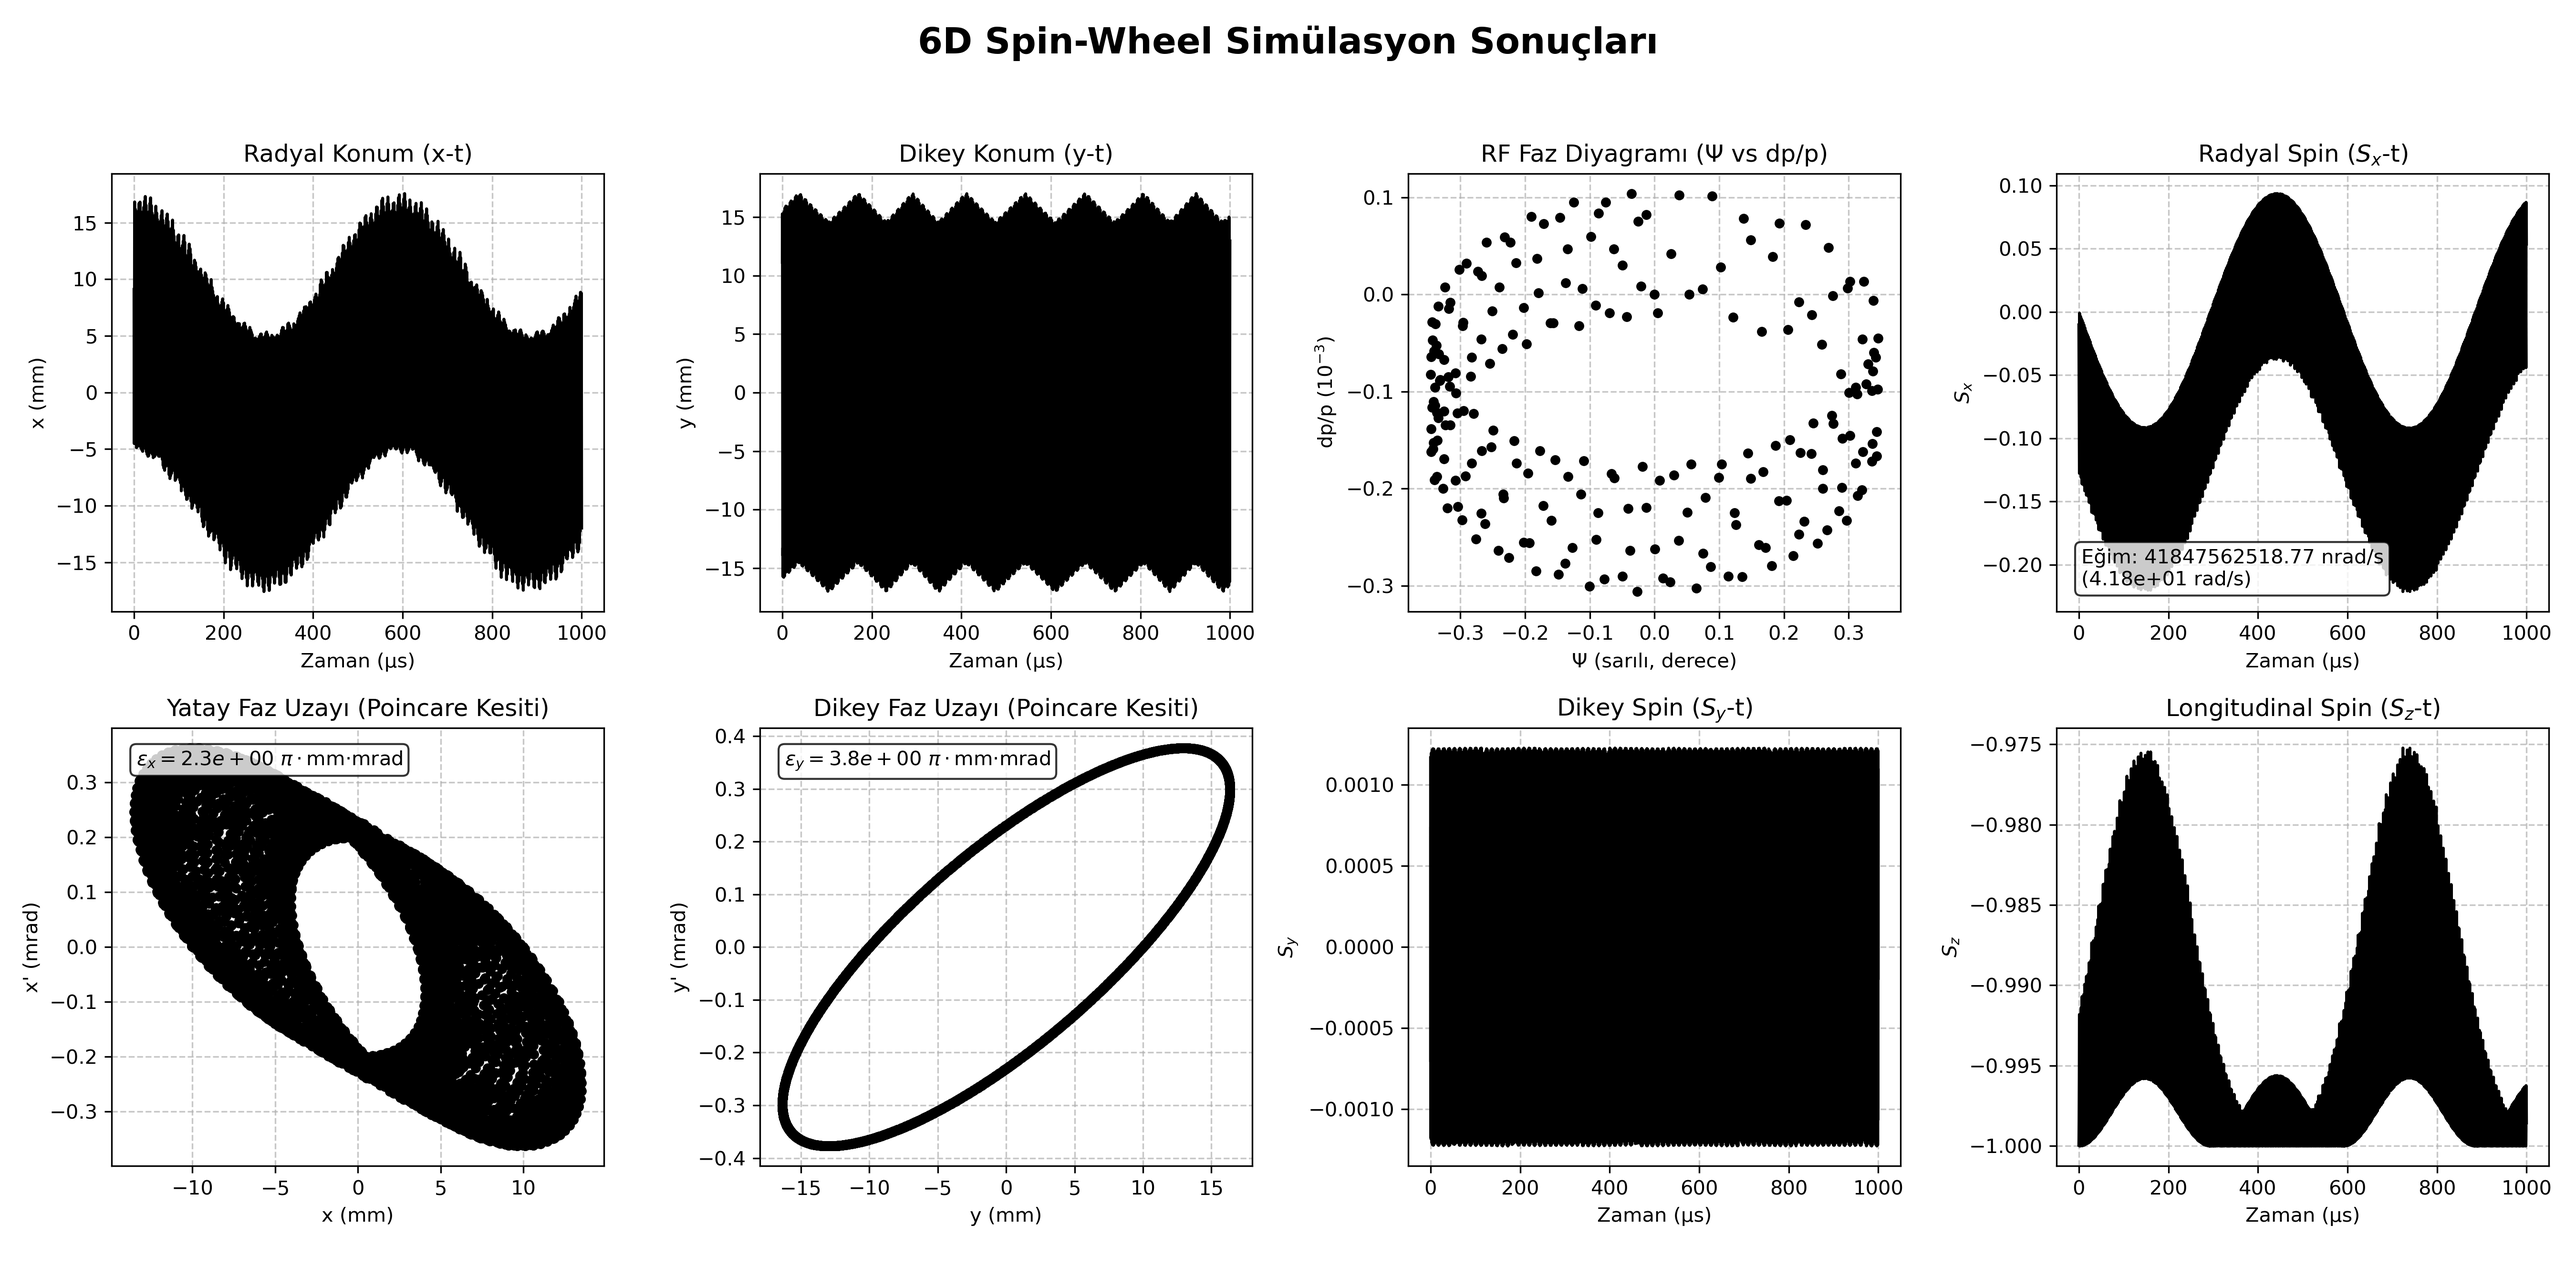
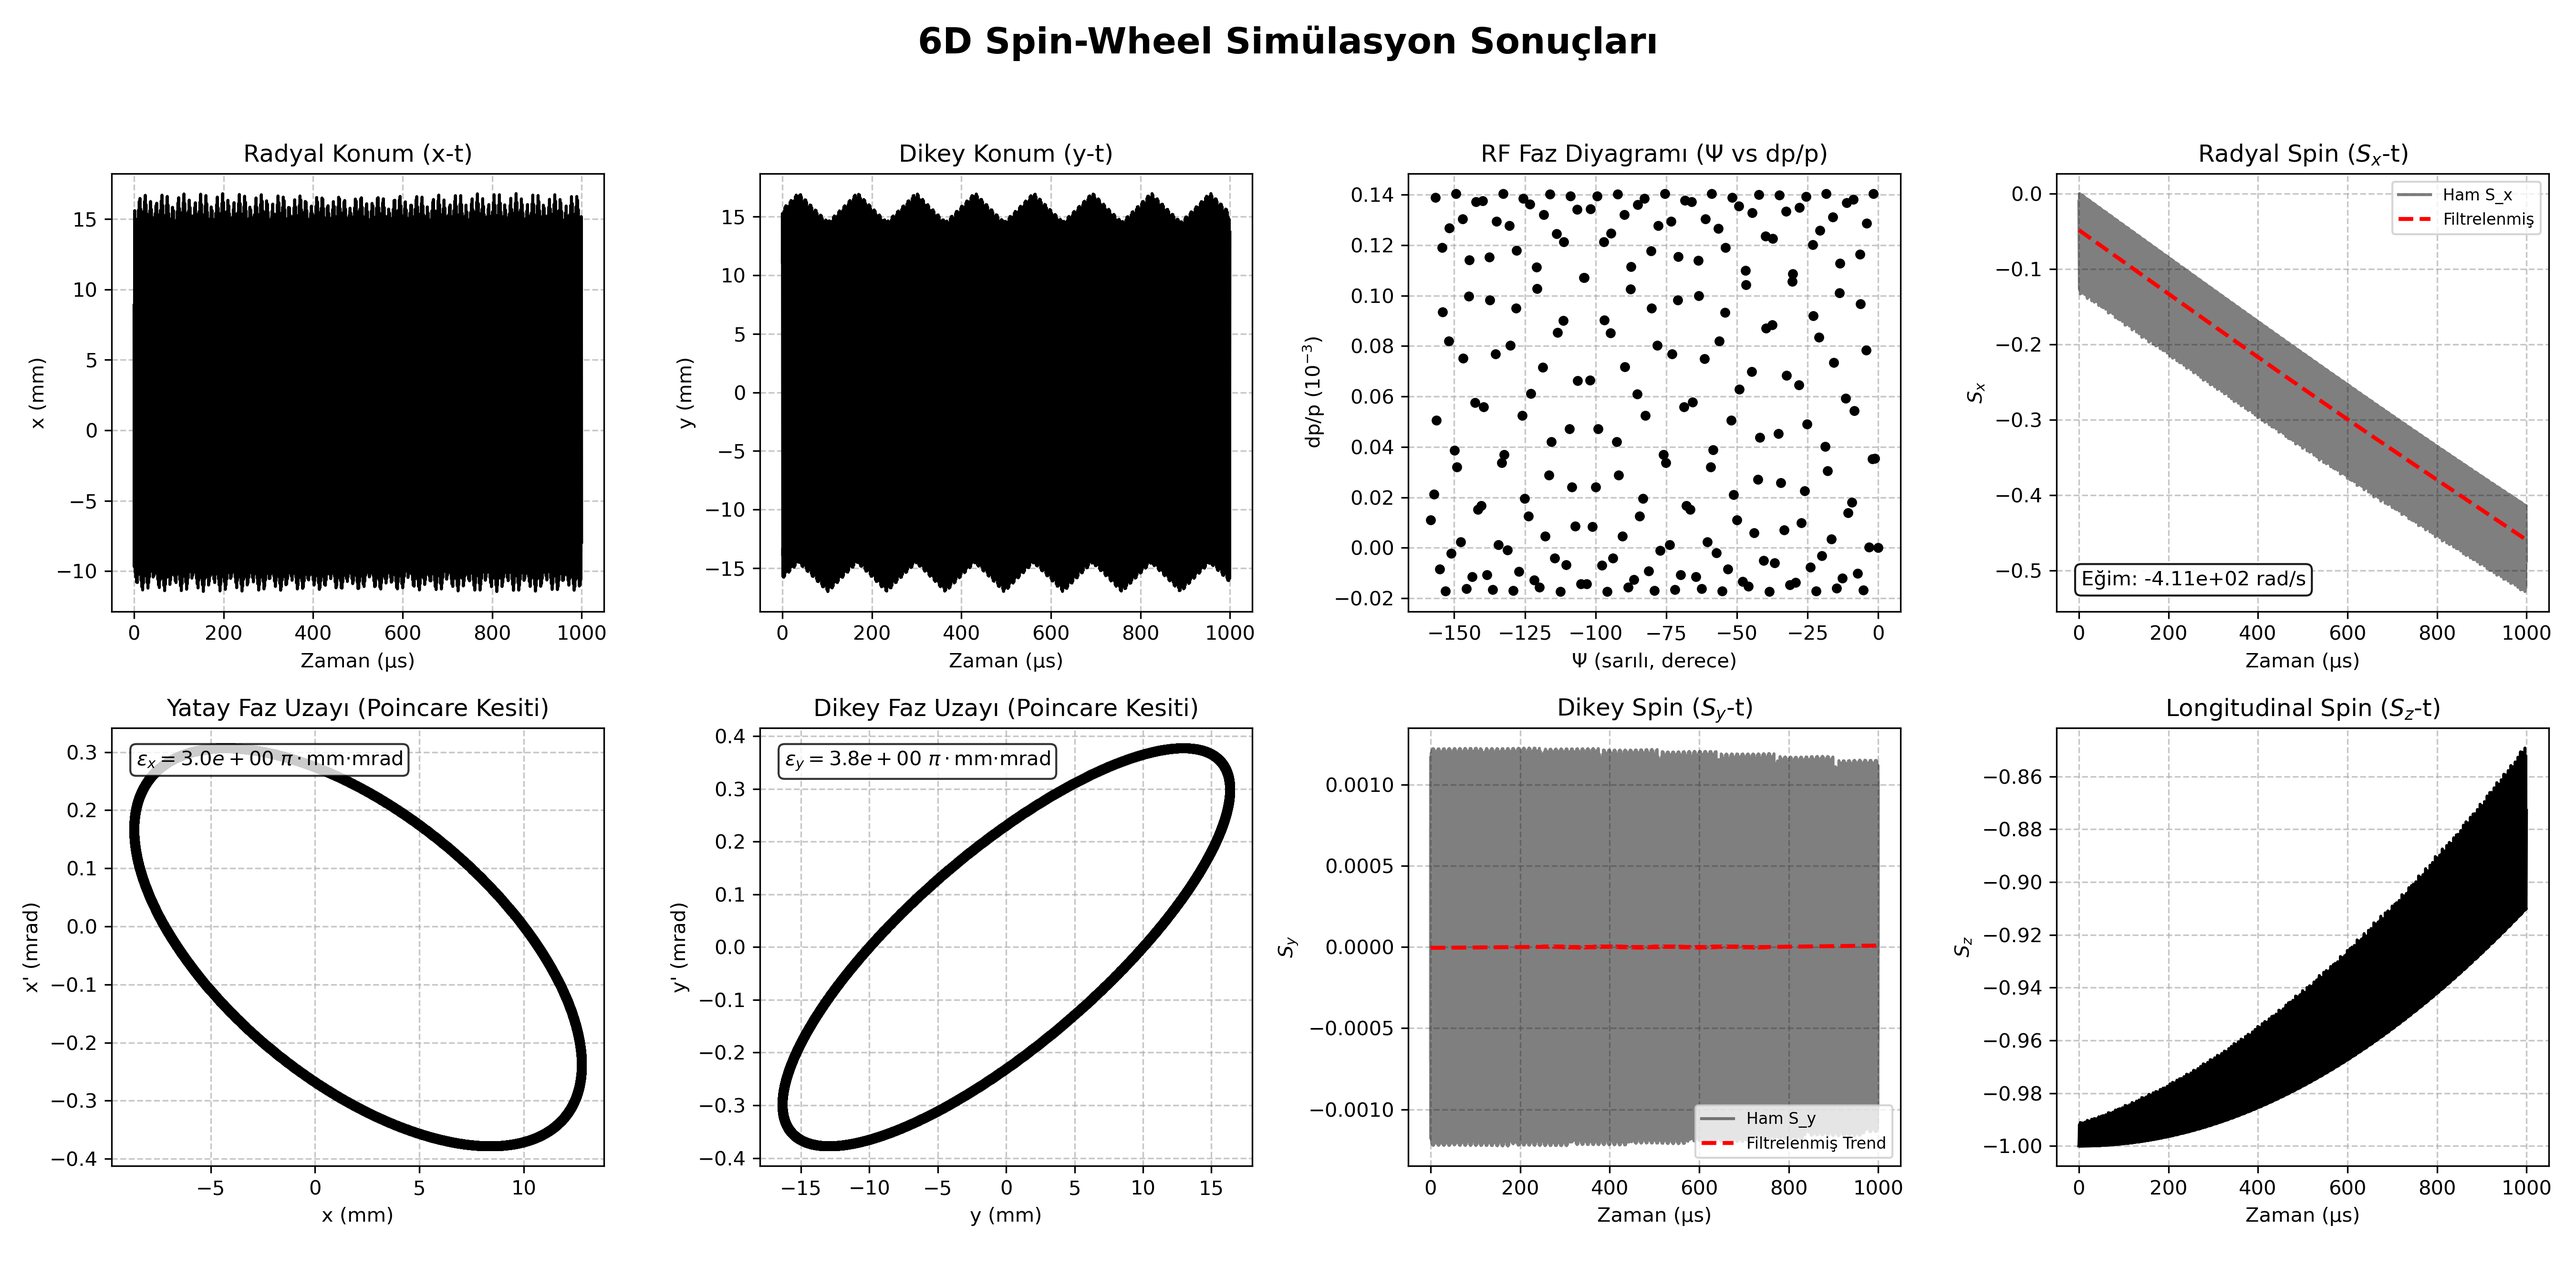
Klasördeki tüm güncel dosyalar gönderiliyor

diff --git a/plot_results.py b/plot_results.py
@@ -133,14 +133,33 @@ def main():
     axs[0,2].set_ylabel("dp/p ($10^{-3}$)")
     axs[0,2].grid(True, linestyle='--', alpha=0.7)
     
-    axs[0,3].plot(t, sx, 'k-', lw=1.5)
+    axs[0,3].plot(t, sx, 'k-', lw=1.5, alpha=0.5, label='Ham S_x')
+    
+    # Savitzky-Golay Sx Filtreleme
+    from scipy.signal import savgol_filter
+    window_size = (len(sx) // 4) * 2 + 1
+    if window_size >= 5:
+        sx_filt = savgol_filter(sx, window_length=window_size, polyorder=1)
+        axs[0,3].plot(t, sx_filt, 'r--', lw=2, label='Filtrelenmiş')
+        axs[0,3].legend(loc='upper right', fontsize=8)
+    else:
+        sx_filt = sx
+        
     axs[0,3].set_title("Radyal Spin ($S_x$-t)")
     axs[0,3].set_xlabel("Zaman (μs)")
     axs[0,3].set_ylabel("$S_x$")
     axs[0,3].grid(True, linestyle='--', alpha=0.7)
     
-    slope_sx, _ = np.polyfit(data[:, 0], sx, 1)
-    axs[0,3].text(0.05, 0.05, f"Eğim: {slope_sx*1e9:.2f} nrad/s\n({slope_sx:.2e} rad/s)", transform=axs[0,3].transAxes, fontsize=10, verticalalignment='bottom', bbox=dict(boxstyle='round', facecolor='white', alpha=0.8))
+    # Kenar etkilerini yok etmek için %10'luk baştan sondan kırpmalı (robust) slope hesabı
+    trim = int(len(sx_filt) * 0.1)
+    if trim > 0 and len(sx_filt) - 2 * trim > 10:
+        fit_t = data[trim:-trim, 0]
+        fit_s = sx_filt[trim:-trim]
+        slope_sx, _ = np.polyfit(fit_t, fit_s, 1)
+    else:
+        slope_sx, _ = np.polyfit(data[:, 0], sx_filt, 1)
+        
+    axs[0,3].text(0.05, 0.05, f"Eğim: {slope_sx:.2e} rad/s", transform=axs[0,3].transAxes, fontsize=10, verticalalignment='bottom', bbox=dict(boxstyle='round', facecolor='white', alpha=0.9))
     
     # ---------------- POINCARE SECTIONS ----------------
     if len(x_pc) > 0:
@@ -181,7 +200,16 @@ def main():
     axs[1,1].grid(True, linestyle='--', alpha=0.7)
     # ---------------------------------------------------
     
-    axs[1,2].plot(t, sy, 'k-', lw=1.5)
+    axs[1,2].plot(t, sy, 'k-', lw=1.5, alpha=0.5, label='Ham S_y')
+    
+    # Savitzky-Golay ile filtrelenmiş trend
+    from scipy.signal import savgol_filter
+    window_size = (len(sy) // 4) * 2 + 1
+    if window_size >= 5:
+        sy_filt = savgol_filter(sy, window_length=window_size, polyorder=1)
+        axs[1,2].plot(t, sy_filt, 'r--', lw=2, label='Filtrelenmiş Trend')
+        axs[1,2].legend(loc='best', fontsize=8)
+        
     axs[1,2].set_title("Dikey Spin ($S_y$-t)")
     axs[1,2].set_xlabel("Zaman (μs)")
     axs[1,2].set_ylabel("$S_y$")

diff --git a/run_simulation.py b/run_simulation.py
@@ -152,8 +152,28 @@ def main():
             print(f"-> Betatron Tune Qy          : {Qy:.4f}")
         
     sx_arr = sonuclar_local[:, 6]
-    slope_sx, _ = np.polyfit(t_array, sx_arr, 1)
-    print(f"-> Radyal Spin Eğimi (S_x-t): {slope_sx*1e9:.2f} nrad/s ({slope_sx:.2e} rad/s)")
+    sy_arr = sonuclar_local[:, 7]
+    
+    # Savitzky-Golay Filtresi ile Salinim Giderimi
+    from scipy.signal import savgol_filter
+    window_size = (len(sx_arr) // 4) * 2 + 1 
+    if window_size < 5: window_size = 5
+    sx_filtered = savgol_filter(sx_arr, window_length=window_size, polyorder=1)
+    sy_filtered = savgol_filter(sy_arr, window_length=window_size, polyorder=1)
+    
+    trim = int(len(sx_filtered) * 0.1)
+    if trim > 0 and len(sx_filtered) - 2 * trim > 10:
+        fit_t = t_array[trim:-trim]
+        fit_sx = sx_filtered[trim:-trim]
+        fit_sy = sy_filtered[trim:-trim]
+        slope_sx, _ = np.polyfit(fit_t, fit_sx, 1)
+        slope_sy, _ = np.polyfit(fit_t, fit_sy, 1)
+    else:
+        slope_sx, _ = np.polyfit(t_array, sx_filtered, 1)
+        slope_sy, _ = np.polyfit(t_array, sy_filtered, 1)
+    
+    print(f"-> Radyal Trend Eğimi (S_x-t): {slope_sx:.4e} rad/s")
+    print(f"-> Dikey  Trend Eğimi (S_y-t): {slope_sy:.4e} rad/s")
     print("--------------------------------------------------")
     
     print("Sürekli (Continuous) veriler yazılıyor (simulation_data.txt)...")
